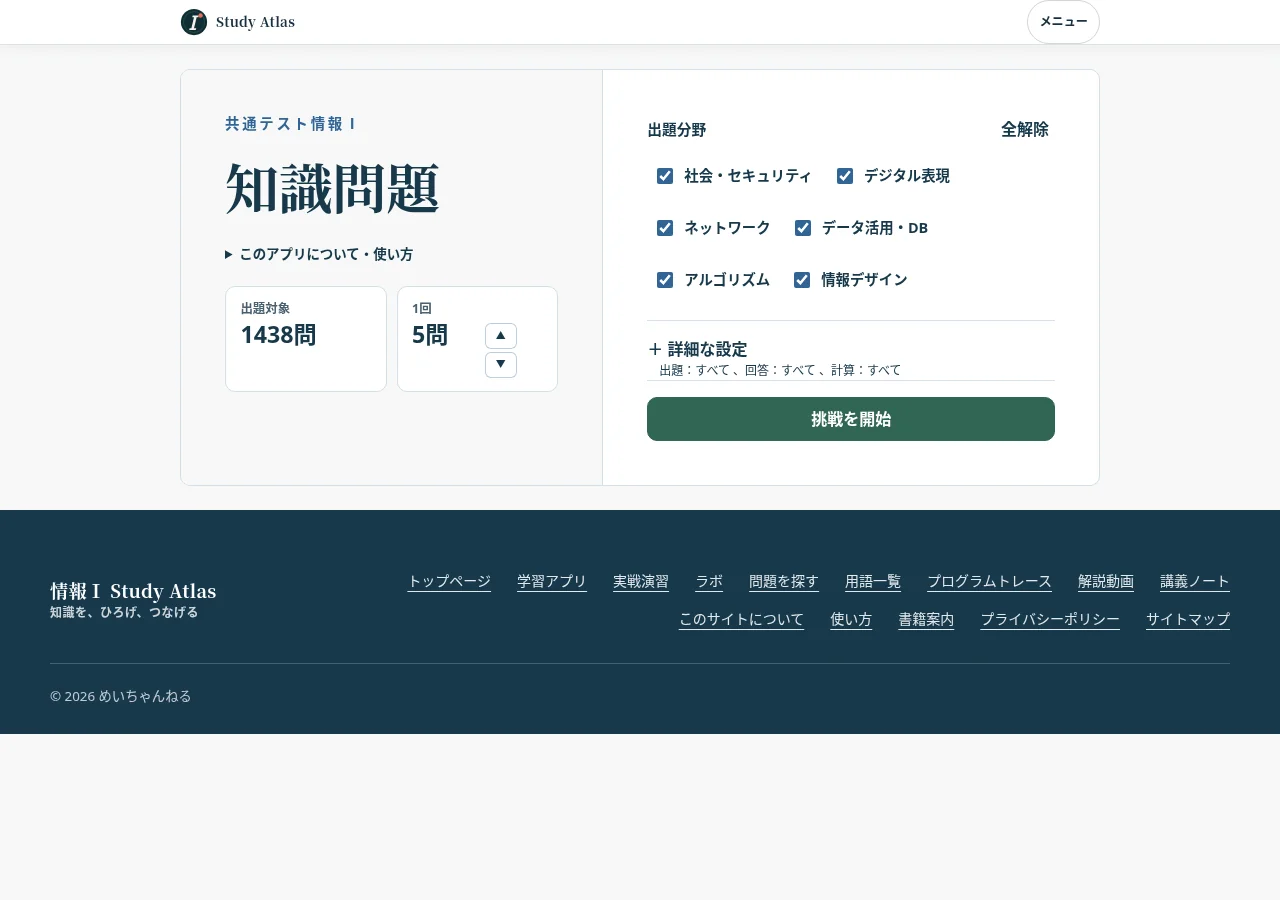
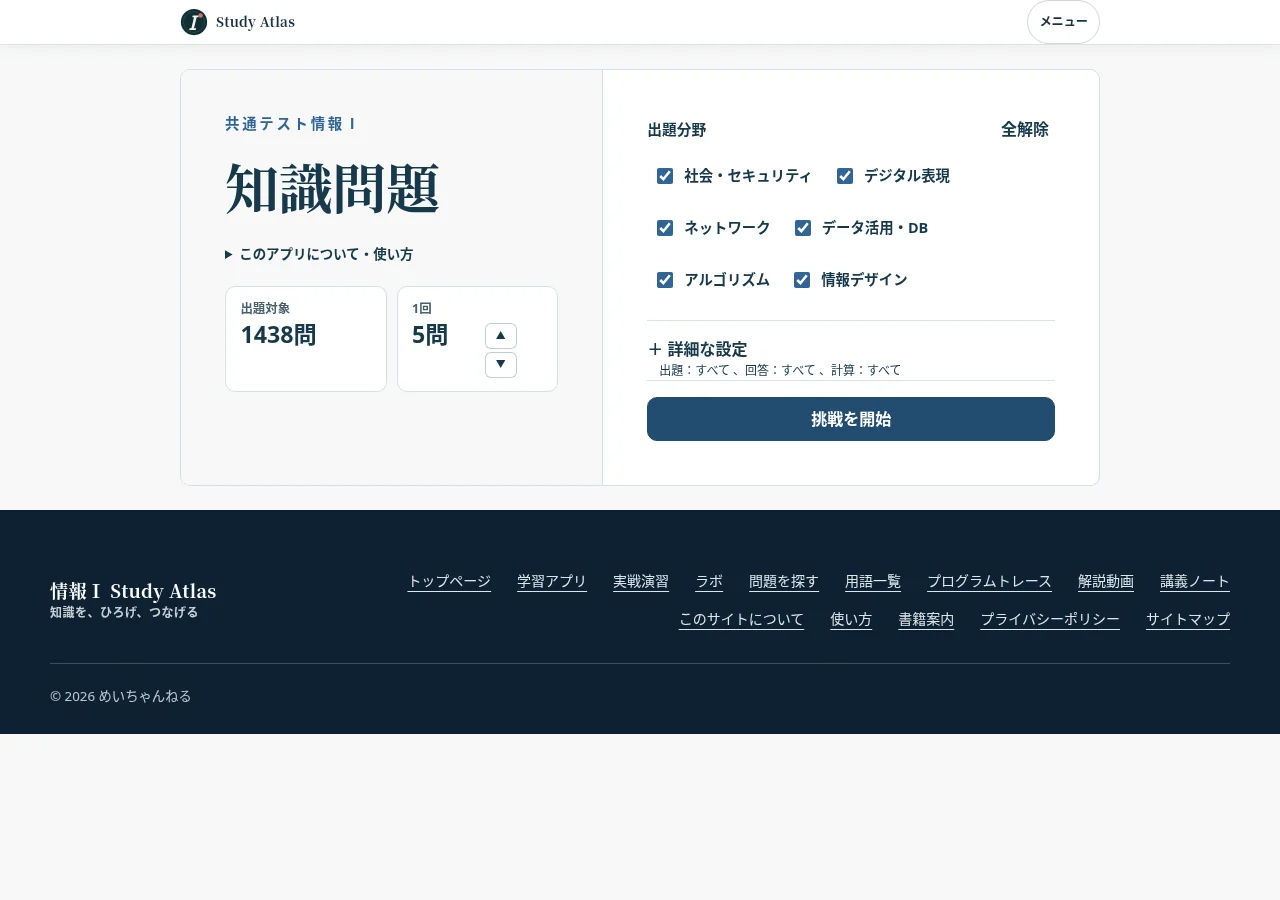
教材カードと開始操作を紺系に揃えフッターを濃くする

diff --git a/assets/atlas-shell.css b/assets/atlas-shell.css
@@ -24,11 +24,12 @@
 .horizontal-scroll-cue__edge--right { right: 0; justify-content: flex-end; background: linear-gradient(270deg, var(--atlas-surface) 38%, rgb(255 255 255 / 0%)); }
 .horizontal-scroll-cue__edge--right::after { content: "›"; }
 
-.site-footer { padding: 58px 0 24px; color: var(--atlas-surface); background: var(--atlas-ink); font-family: var(--atlas-font); line-height: 1.8; }
+.site-footer { padding: 58px 0 24px; color: var(--atlas-surface); background: var(--atlas-footer); font-family: var(--atlas-font); line-height: 1.8; }
 .footer-grid { width: min(1180px, calc(100% - 40px)); margin: 0 auto; display: flex; justify-content: space-between; gap: 40px; }
 .footer-brand { margin: 0; color: var(--atlas-surface); }
 .footer-brand small { color: rgb(255 255 255 / 78%); }
 .footer-brand:hover { color: var(--atlas-surface); opacity: .88; }
+.site-footer a:focus-visible { outline: 3px solid #c4d9ec; outline-offset: 3px; }
 .footer-copy { margin: 6px 0 0; color: rgb(255 255 255 / 78%); font-size: .875rem; }
 .footer-grid nav { display: flex; flex-wrap: wrap; justify-content: flex-end; gap: 12px 26px; }
 .footer-grid nav a { color: rgb(255 255 255 / 88%); font-size: .875rem; text-underline-offset: 5px; }

diff --git a/assets/atlas-tokens.css b/assets/atlas-tokens.css
@@ -9,13 +9,15 @@
   --atlas-accent: #326596;
   --atlas-terracotta: #b94732;
   --atlas-selected: #18394b;
-  --atlas-action: #306653;
-  --atlas-action-hover: #234e40;
+  --atlas-action: #234c71;
+  --atlas-action-hover: #18394b;
+  --atlas-footer: #0d2233;
   --atlas-control: #4b6371;
   --atlas-control-hover: #374e5a;
   --atlas-note: #f7f9fc;
   --atlas-note-line: #aabfd1;
   --atlas-line: #d5e0e8;
+  --atlas-card-edge: 3px solid var(--atlas-selected);
   --atlas-radius: .625rem;
   --atlas-shadow: 0 2px 8px rgb(24 57 75 / 5%);
   --atlas-font: "Hiragino Sans", "Yu Gothic", Meiryo, system-ui, sans-serif;

diff --git a/mock-exams/app.css b/mock-exams/app.css
@@ -161,6 +161,7 @@ button:disabled {
   flex-direction: column;
   gap: 9px;
   padding: 24px;
+  border-inline-start: var(--atlas-card-edge);
   border-radius: var(--atlas-radius, 8px);
   text-align: left;
   line-height: 1.7;
@@ -359,6 +360,7 @@ button:disabled {
   .exam-card.catalog-exam {
     position: relative;
     padding: .85rem 2rem .85rem 1rem;
+    border-inline-start: var(--atlas-card-edge);
     min-height: 50px;
   }
   .catalog-exam .exam-card-title {

diff --git a/assets/home.css b/assets/home.css
@@ -65,7 +65,6 @@
   display: flex;
   flex-direction: column;
   padding: clamp(1rem, 2vw, 1.55rem);
-  border-inline-start: 3px solid var(--atlas-selected);
 }
 
 .home-action-heading { display: flex; align-items: center; gap: .65rem; }
@@ -102,7 +101,6 @@
 
 .home-misc-grid a.home-action-card {
   padding: .875rem 1rem;
-  border-inline-start: 1px solid var(--atlas-line);
 }
 .home-misc-grid h3 { font-size: 1rem; }
 .home-misc-grid p {

diff --git a/assets/atlas-components.css b/assets/atlas-components.css
@@ -5,6 +5,7 @@ a:is(.home-action-card, .home-other-card, .archive-field-card, .archive-course-c
   color: var(--atlas-ink);
   background: var(--atlas-surface);
   border: 1px solid var(--atlas-line);
+  border-inline-start: var(--atlas-card-edge);
   border-radius: var(--atlas-radius);
   text-decoration: none;
 }

diff --git a/docs/design-review/README.md b/docs/design-review/README.md
@@ -4,11 +4,11 @@
 
 | 領域 | 主な変更 |
 | --- | --- |
-| トップ | キャッチコピーは公開版と同じ3行・赤茶で中央揃え。主要教材は左端に濃紺の線を入れ、サブ教材は薄い枠の小さなカードにする。その他は公開版と同じ幅210px。PC・タブレットでは従来の色付き円形図を表示。680px以下では図を省いて教材への導線を優先。主要教材3件、サブ教材、案内の順で入口を整理 |
+| トップ | キャッチコピーは公開版と同じ3行・赤茶で中央揃え。教材へのリンクカードは白地に濃紺の左罫線を入れ、サブ教材は小さめにする。その他は公開版と同じ幅210px。PC・タブレットでは従来の色付き円形図を表示。680px以下では図を省いて教材への導線を優先。主要教材3件、サブ教材、案内の順で入口を整理 |
 | 共通UI・解説動画・書籍・案内 | 色・余白の基準、ヘッダー、現在地、フォーカス、本文と一覧の文字サイズを共通化 |
 | 用語一覧・用語記事 | 検索入力、表示条件、記事見出しを統一。お気に入り・既読・ハイライトの各状態を維持 |
 | 講義ノート | 独自ヘッダー・フッターを共通CSSへ移行。白地の表題、章の余白、用語への導線を整理 |
-| 学習アプリ・問題検索 | 紙面は白、リンクは青、学習開始・再挑戦は深緑に統一 |
+| 学習アプリ・問題検索 | 紙面は白、リンクは青、学習開始・再挑戦は青紺に統一 |
 | 実戦演習 | 受験モード・絞り込み・試験一覧の境界と文字を整理。問題冊子とPDFはそのまま使用 |
 | Interactive Lab | 分野内リンク、教材の説明、共通ヘルプ・見出し・ボタンを整理。可視化は各教材が管理 |
 | トレース・Studio | 実行画面と一覧の文字・背景に共通色を適用。実行状態・コード色は専用CSSに維持 |

diff --git a/docs/DESIGN.md b/docs/DESIGN.md
@@ -2,7 +2,7 @@
 
 ## 色と文字
 
-本文を載せる紙面は白、周囲はごく薄いグレー、見出しは濃紺にする。リンクやフォーカスには青を使う。トップのキャッチコピーは公開版の改行と赤茶を使う。教材へのリンクカードには白地と細い罫線を使う。本文中の補足は薄い青灰色の背景と左罫線で示す。
+本文を載せる紙面は白、周囲はごく薄いグレー、見出しは濃紺にする。リンクやフォーカスには青を使う。トップのキャッチコピーは公開版の改行と赤茶を使う。教材へのリンクカードには白地と紺の左罫線を使う。開始・再開ボタンは青紺、フッターはさらに暗い紺にする。本文中の補足は薄い青灰色の背景と左罫線で示す。
 
 | 用途 | CSS変数 | 値 |
 | --- | --- | --- |
@@ -12,7 +12,8 @@
 | 見出し・本文 | --atlas-ink | #18394B |
 | 補助文 | --atlas-muted | #495F70 |
 | 選択中のボタン | --atlas-selected | #18394B |
-| 開始・再開・再挑戦 | --atlas-action | #306653 |
+| 開始・再開・再挑戦 | --atlas-action | #234C71 |
+| フッター | --atlas-footer | #0D2233 |
 | 次へ・採点などの操作 | --atlas-control | #4B6371 |
 | リンク・フォーカス | --atlas-accent | #326596 |
 | キャッチコピーの強調 | --atlas-terracotta | #B94732 |
